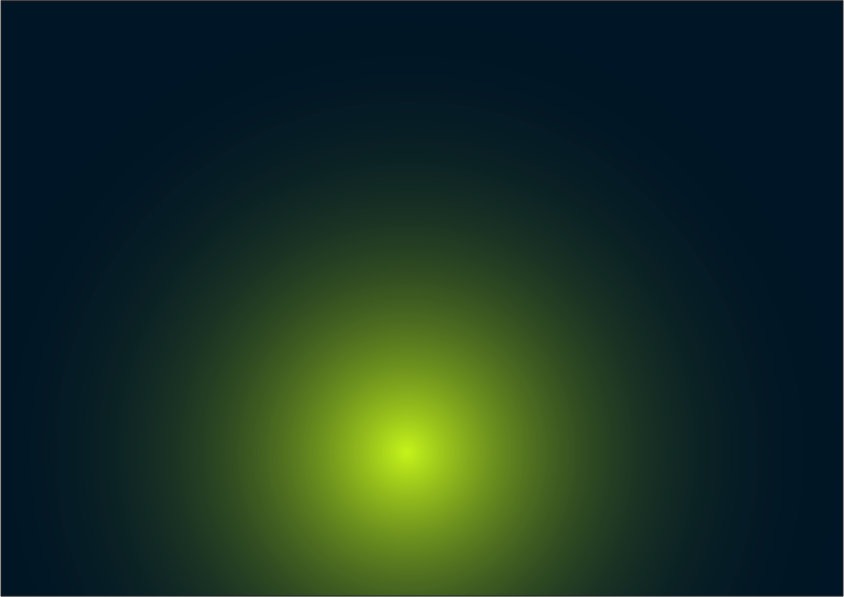
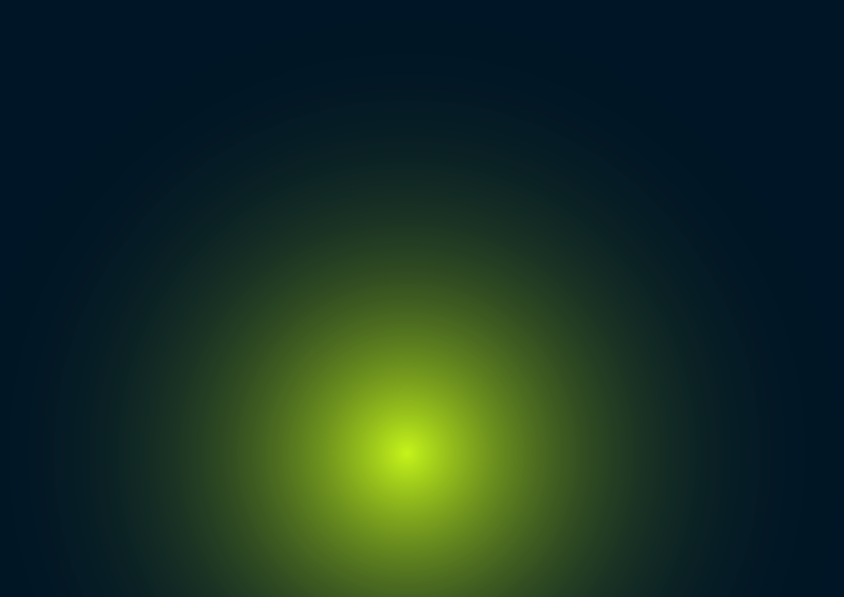
Add files via upload

Changed region(s): [[0.0, 0.995, 1.0, 1.0], [0.9858, 0.0, 1.0, 0.0302]]

diff --git a/css/estilos.css b/css/estilos.css
@@ -65,7 +65,7 @@ body {
     background-size: cover;
 }
 .we{
-    background-image: url("../imagenes/back2.jpg");
+    background-image: url("../imagenes/back2.png");
     background-repeat: no-repeat;
     background-position: center;
     background-size: cover;
